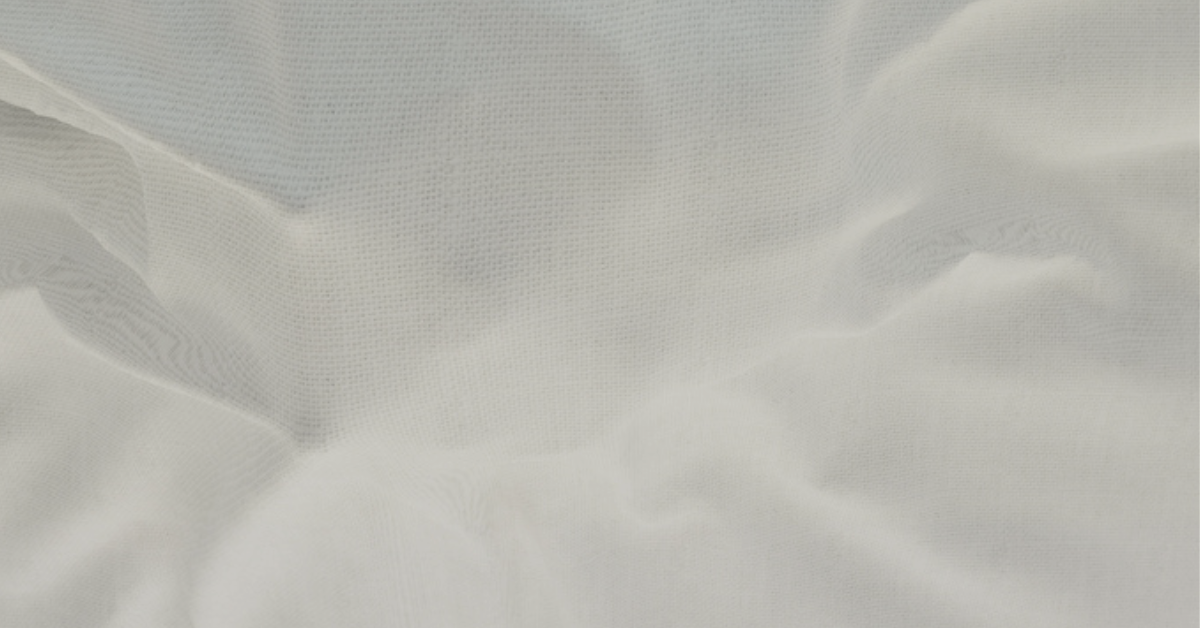
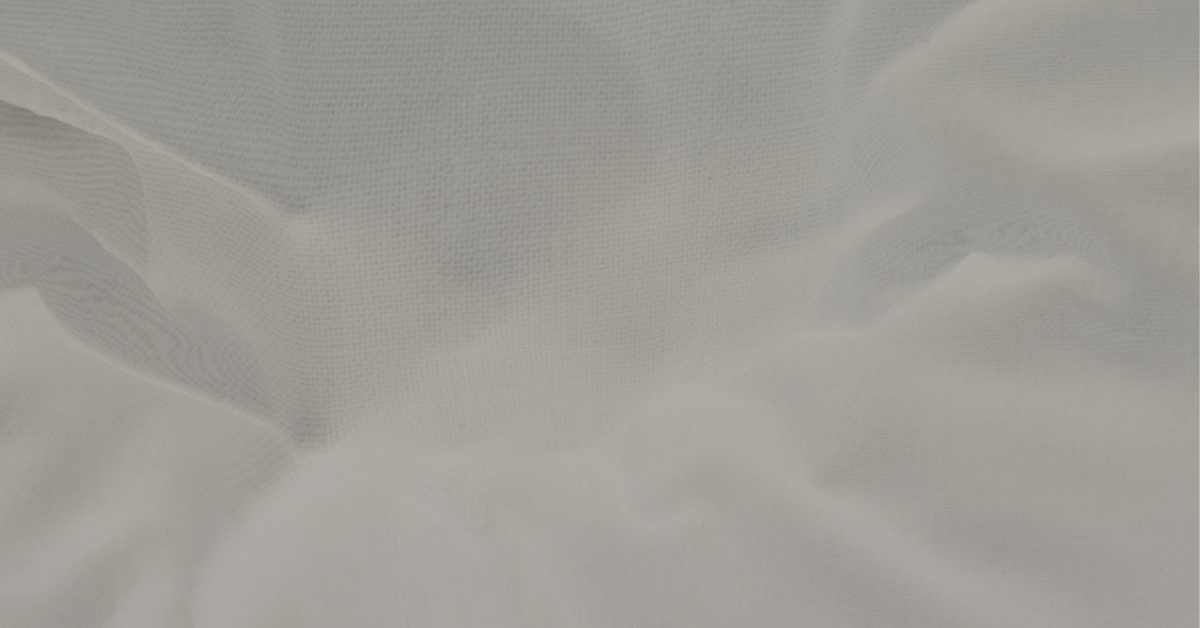
update background image

diff --git a/components/profile/Profiles.tsx b/components/profile/Profiles.tsx
@@ -17,8 +17,7 @@ import { ContentSlideUp } from '../styles/ContentSlideUp';
 import MemberTitle from './MemberTitle';
 
 const StyledDiv = styled.div`
-    background-image: ${videoGradient},
-        url(${webConfig.basePath}/assets/laptop-table.png);
+    background-image: url(${webConfig.basePath}/assets/laptop-table.png);
     background-size: cover;
     background-repeat: no-repeat;
     background-position: bottom;
